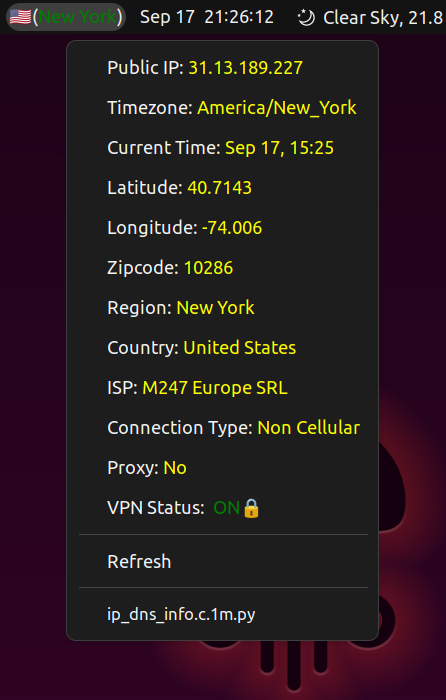
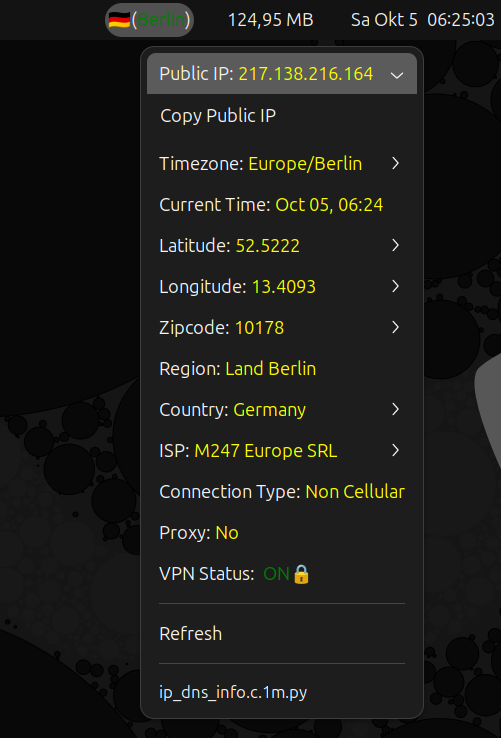
Add copy to clipboard for some details with dropdown - update screenshot of main dropdown

diff --git a/README.md b/README.md
@@ -13,6 +13,8 @@
 3. Make the script executable by running `chmod +x ip_dns_info.c.1m.py`.
 4. Refresh GNOME extensions by pressing `Alt+F2` and typing `r` and pressing `Enter`.
 
+It also need `xclip` to copy the details to the clipboard. You can install it by running `sudo apt install xclip` in Debian based distros.
+
 ### Usage
 
 The script should just display the IP and DNS details in the top bar of GNOME desktop with a Country Flag emoji and the city name. If the city name is in green color, it means your system is connected to a VPN. If the city name is in red color, it means your system is not connected to a VPN. You can click on the city name to see the IP and DNS details in a drop down window. Which shows following details:
@@ -29,6 +31,8 @@ The script should just display the IP and DNS details in the top bar of GNOME de
 10. Connection Type(Cellular or Non-Cellular)
 11. Proxy(Yes or No)
 12. VPN Status(ON or OFF)
+
+You can also copy some of the details to the clipboard by clicking on them.
 
 <p align="center">
 <img src="src/screenshot.png" alt="Screenshot of the plugin" width="50%">
